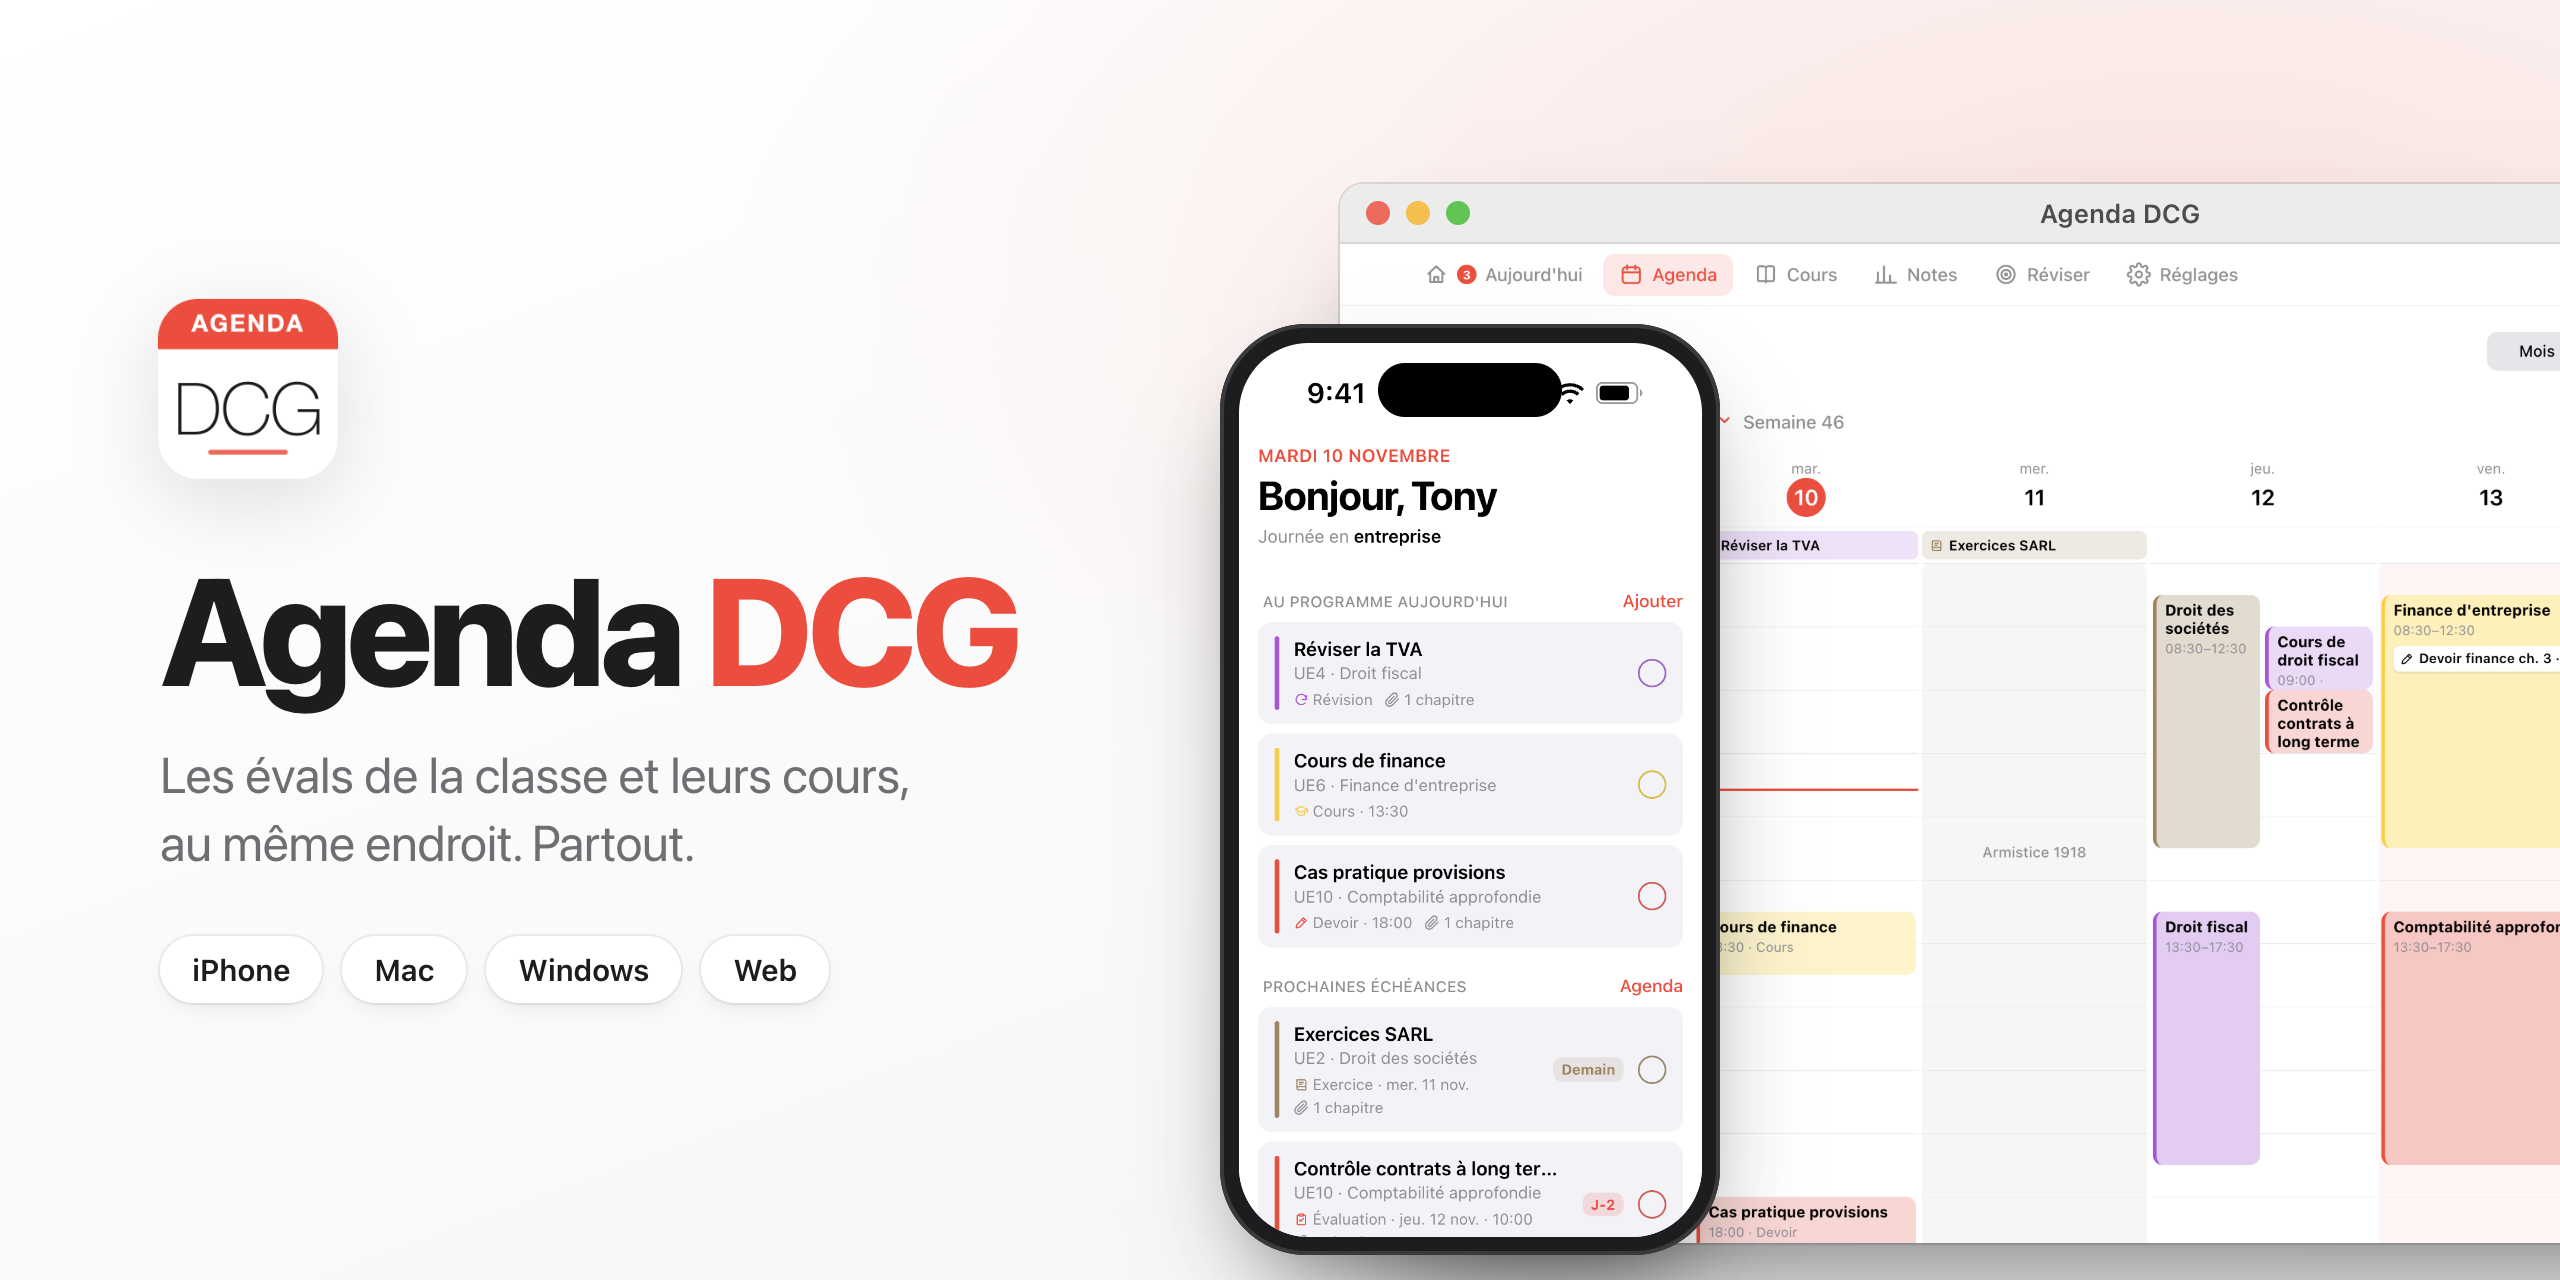
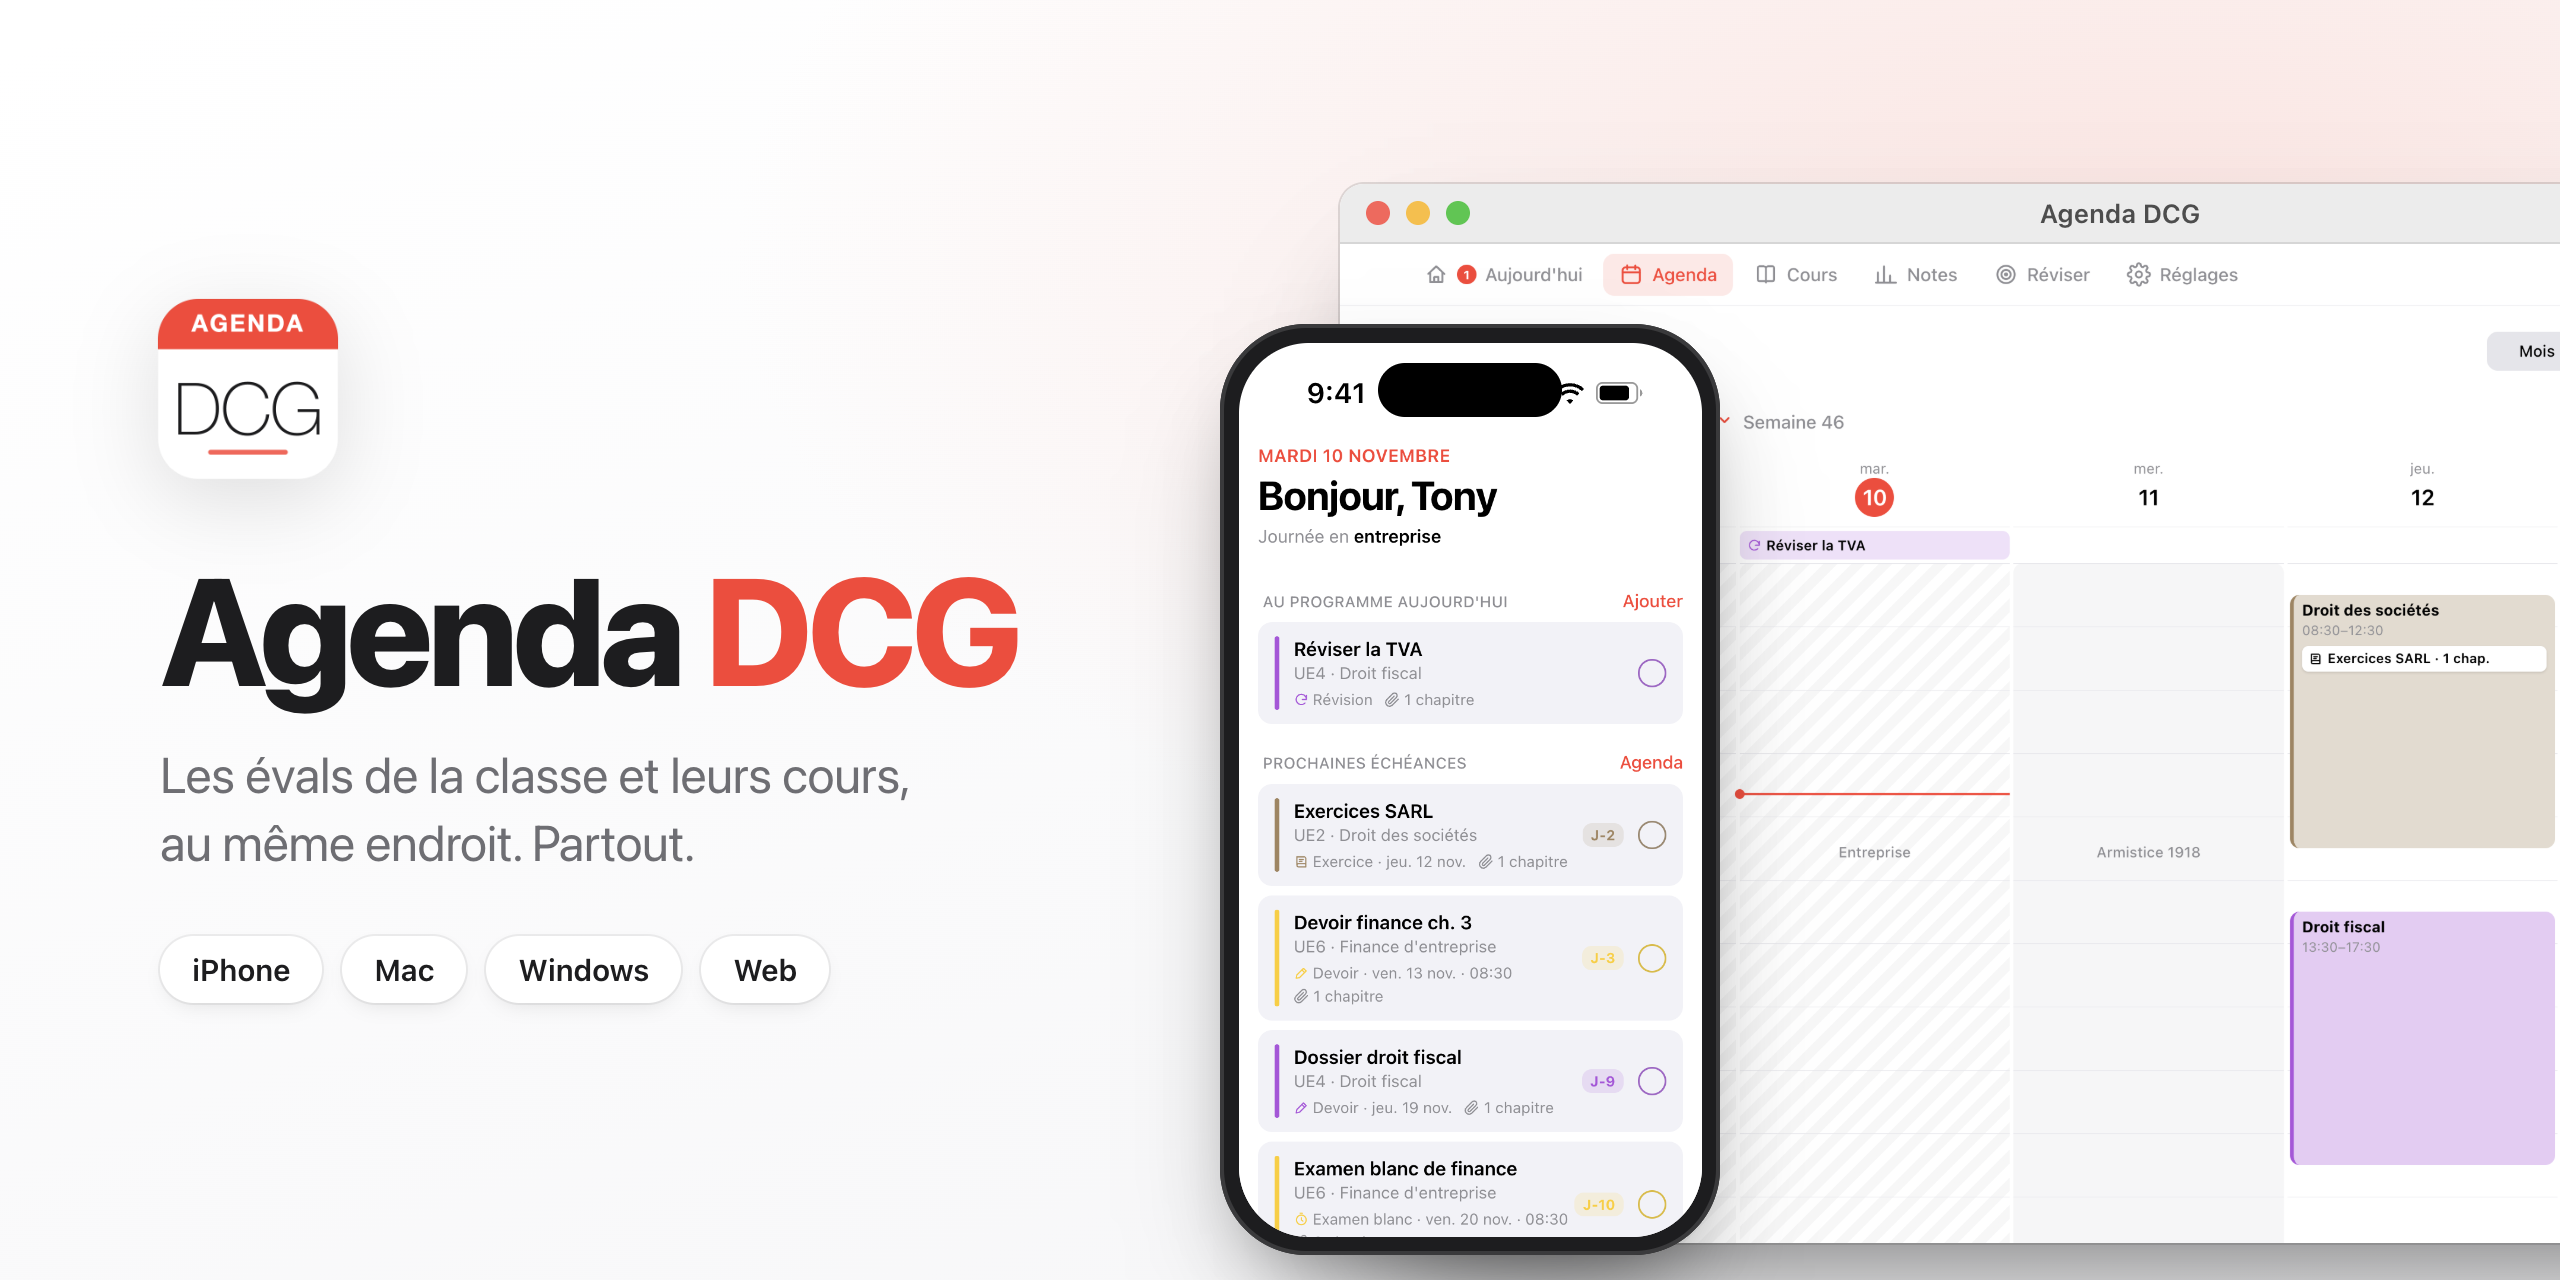
Événements toujours rangés dans la case de leur matière, captures propres

diff --git a/public/index.html b/public/index.html
@@ -340,7 +340,7 @@ a.nav-row { color: inherit; text-decoration: none; }
 .quick-dates button { padding: 5px 10px; border-radius: 14px; background: var(--card); color: var(--blue); font-weight: 600; font-size: 13px; }
 .tt-now { position: absolute; left: 0; right: 0; height: 2px; background: var(--accent); z-index: 3; }
 .tt-now::before { content: ""; position: absolute; left: -4px; top: -3px; width: 8px; height: 8px; border-radius: 50%; background: var(--accent); }
-@media (max-width: 700px) { .view-toggle button { padding: 5px 8px; font-size: 12.5px; } .topbar .left { gap: 0; } .tt { grid-template-columns: 30px repeat(var(--days), minmax(0, 1fr)); column-gap: 2px; } .tt-block { padding: 4px; } .tt-block b { font-size: 11px; } .tt-block span { display: none; } .tt-hours div { font-size: 10px; padding-right: 3px; } }
+@media (max-width: 700px) { .view-toggle button { padding: 5px 8px; font-size: 12.5px; } .topbar .left { gap: 0; } .tt { grid-template-columns: 30px repeat(var(--days), minmax(0, 1fr)); column-gap: 2px; } .tt-block { padding: 4px; } .tt-block b { font-size: 11px; } .tt-block span:not(.tt-task) { display: none; } .tt-task { padding: 2px 3px; font-size: 9.5px !important; } .tt-task .kind-ico { display: none; } .tt-hours div { font-size: 10px; padding-right: 3px; } }
 .cahier { max-width: 760px; }
 .cahier-top { display: flex; align-items: center; justify-content: space-between; gap: 12px; margin-bottom: 6px; }
 .cahier-add { white-space: nowrap; width: auto; font-size: 15px; font-weight: 600; padding: 9px 16px; }
@@ -670,7 +670,7 @@ const nextClasses = (subject, from = iso(new Date()), n = 4) => {
   return out;
 };
 /** Devoir / éval rangé dans le créneau d'un cours (même jour, même matière). */
-const inClass = (e) => !e.virtual && !!classFor(e.date, e.subject) && (!e.time || (() => { const c = classFor(e.date, e.subject); return e.time >= c.time && e.time < c.end; })());
+const inClass = (e) => !e.virtual && !!classFor(e.date, e.subject);
 const dayNote = (key) => holiday(key) || (companyDay(key) ? "Entreprise" : "");
 const dayEvents = (key) => [...classesOn(key), ...state.events.filter((e) => e.date === key)].sort((a, b) => (a.time || "").localeCompare(b.time || ""));
 

diff --git a/native/mac/Sources/AgendaDCG/AppModel.swift b/native/mac/Sources/AgendaDCG/AppModel.swift
@@ -97,9 +97,7 @@ final class AppModel: ObservableObject {
         return out
     }
     func inClass(_ e: AgendaEvent) -> Bool {
-        guard !e.isClass, let c = classFor(e.date, e.subject) else { return false }
-        guard let t = e.time, !t.isEmpty else { return true }
-        return t >= (c.time ?? "") && t < (c.end ?? "")
+        !e.isClass && classFor(e.date, e.subject) != nil
     }
     var pastHomework: [AgendaEvent] { let t = iso(Date()); return events.filter { $0.date < t && !($0.attachments ?? []).isEmpty }.sorted { $0.date > $1.date } }
 

diff --git a/native/windows/AgendaDCG/Demo.cs b/native/windows/AgendaDCG/Demo.cs
@@ -27,14 +27,18 @@ static class Demo
             new() { Id = "c3", Subject = UE4, Title = "Chapitres 1 à 6 – La TVA", Files = new() { ["cours"] = null, ["sujet"] = null, ["corrige"] = null, ["topexo"] = null } },
         };
         AgendaEvent E(string id, string kind, string title, string sub, int day, string time, string color) => new() { Id = id, Kind = kind, Title = title, Subject = sub, Date = D(day), Time = time, Color = color, CreatedBy = "Tony", UpdatedBy = "Tony" };
+        int thu = (4 - (int)DateTime.Today.DayOfWeek + 7) % 7, fri = (5 - (int)DateTime.Today.DayOfWeek + 7) % 7;
         s.Events = new()
         {
-            E("1", "cours", "Cours de compta appro", UE10, mon, "09:00", "red"), E("2", "revision", "Réviser la TVA", UE4, 0, "", "purple"),
-            E("3", "devoir", "Cas pratique provisions", UE10, 0, "18:00", "red"), E("4", "eval", "Contrôle contrats à long terme", UE10, 2, "10:00", "red"),
-            E("5", "exercice", "Exercices SARL", UE2, 1, "", "brown"), E("6", "examen", "Examen blanc de finance", UE6, 4, "08:30", "yellow"),
-            E("7", "devoir", "Dossier droit fiscal", UE4, 9, "", "purple"),
-            E("8", "devoir", "Devoir finance ch. 5", UE6, (5 - (int)DateTime.Today.DayOfWeek + 7) % 7, "08:30", "yellow"),
+            E("2", "revision", "Réviser la TVA", UE4, 0, "", "purple"),
+            E("5", "exercice", "Exercices SARL", UE2, thu, "", "brown"),
+            E("3", "devoir", "Cas pratique provisions", UE10, fri, "", "red"),
+            E("8", "devoir", "Devoir finance ch. 5", UE6, fri, "08:30", "yellow"),
+            E("4", "eval", "Contrôle contrats à long terme", UE10, fri + 7, "13:30", "red"),
+            E("6", "examen", "Examen blanc de finance", UE6, fri + 7, "08:30", "yellow"),
+            E("7", "devoir", "Dossier droit fiscal", UE4, thu + 7, "", "purple"),
         };
+
         Grade G(string sub, string t, int day, double v, string cat, double coef) => new() { Id = Guid.NewGuid().ToString(), Subject = sub, Title = t, Date = D(day), Value = v, Category = cat, Coef = coef };
         s.Profile = new()
         {

diff --git a/native/windows/AgendaDCG/Core.cs b/native/windows/AgendaDCG/Core.cs
@@ -262,8 +262,7 @@ public class Store
     }
     public bool InClass(AgendaEvent e)
     {
-        if (e.IsClass || ClassFor(e.Date, e.Subject) is not { } c) return false;
-        return string.IsNullOrEmpty(e.Time) || (string.CompareOrdinal(e.Time, c.Time) >= 0 && string.CompareOrdinal(e.Time, c.End) < 0);
+        return !e.IsClass && ClassFor(e.Date, e.Subject) != null;
     }
     public List<AgendaEvent> PastHomework() { var t = Data.Iso(DateTime.Today); return Events.Where(e => string.CompareOrdinal(e.Date, t) < 0 && (e.Attachments?.Count ?? 0) > 0).OrderByDescending(e => e.Date).ToList(); }
 
